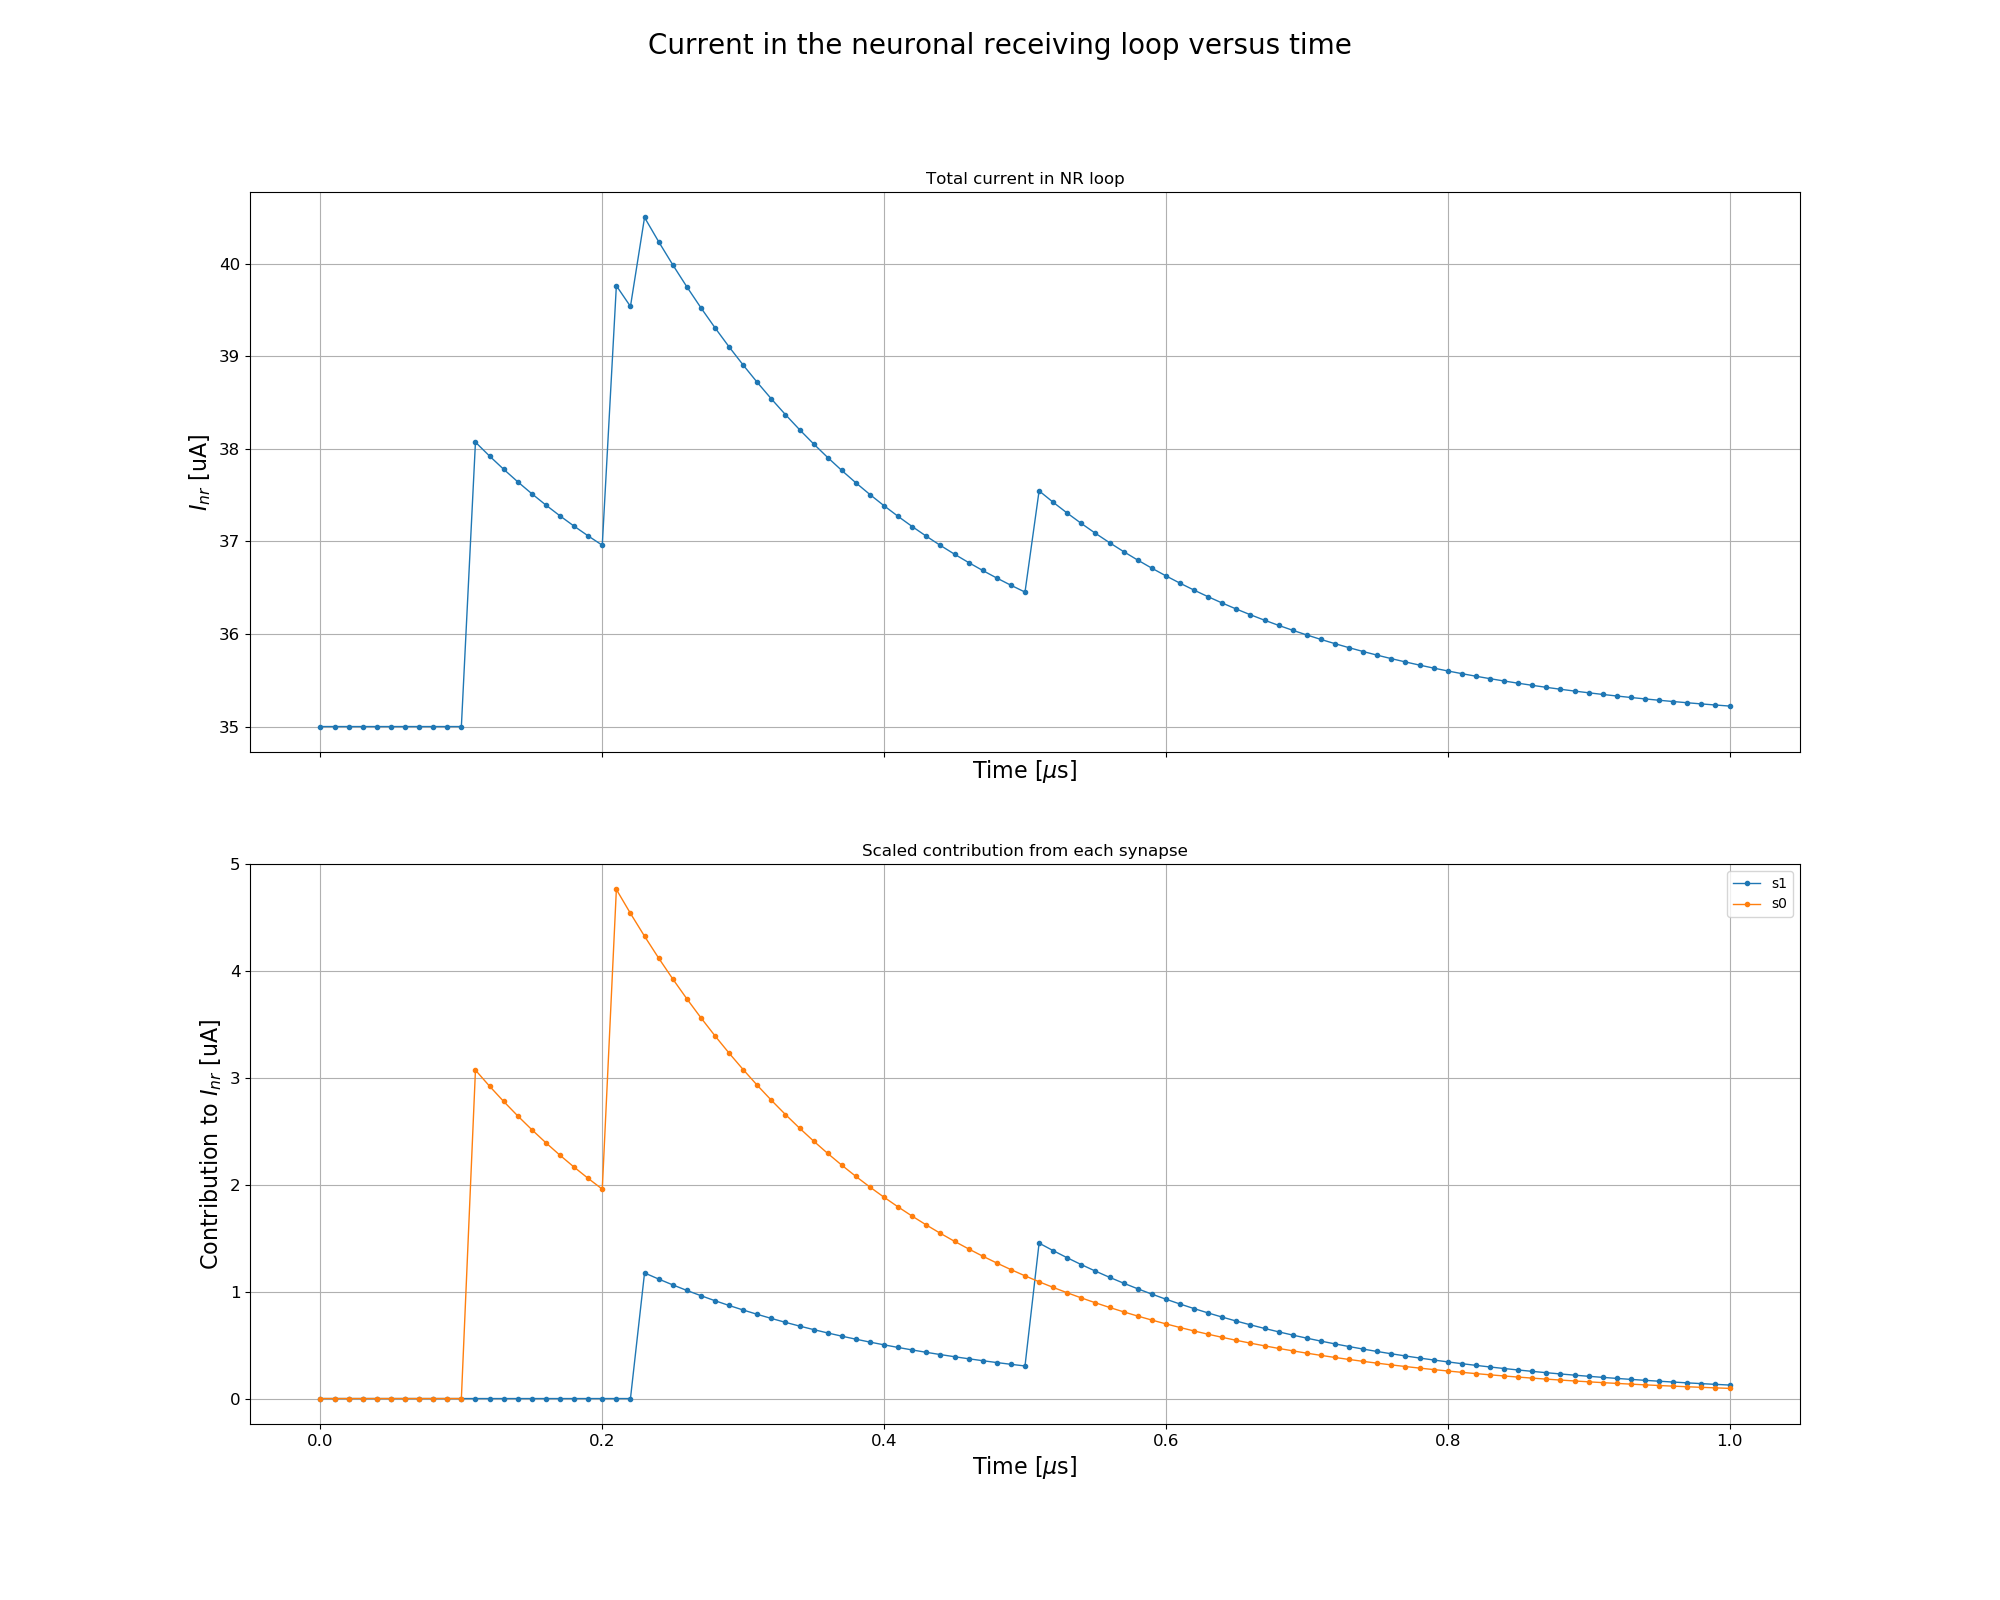
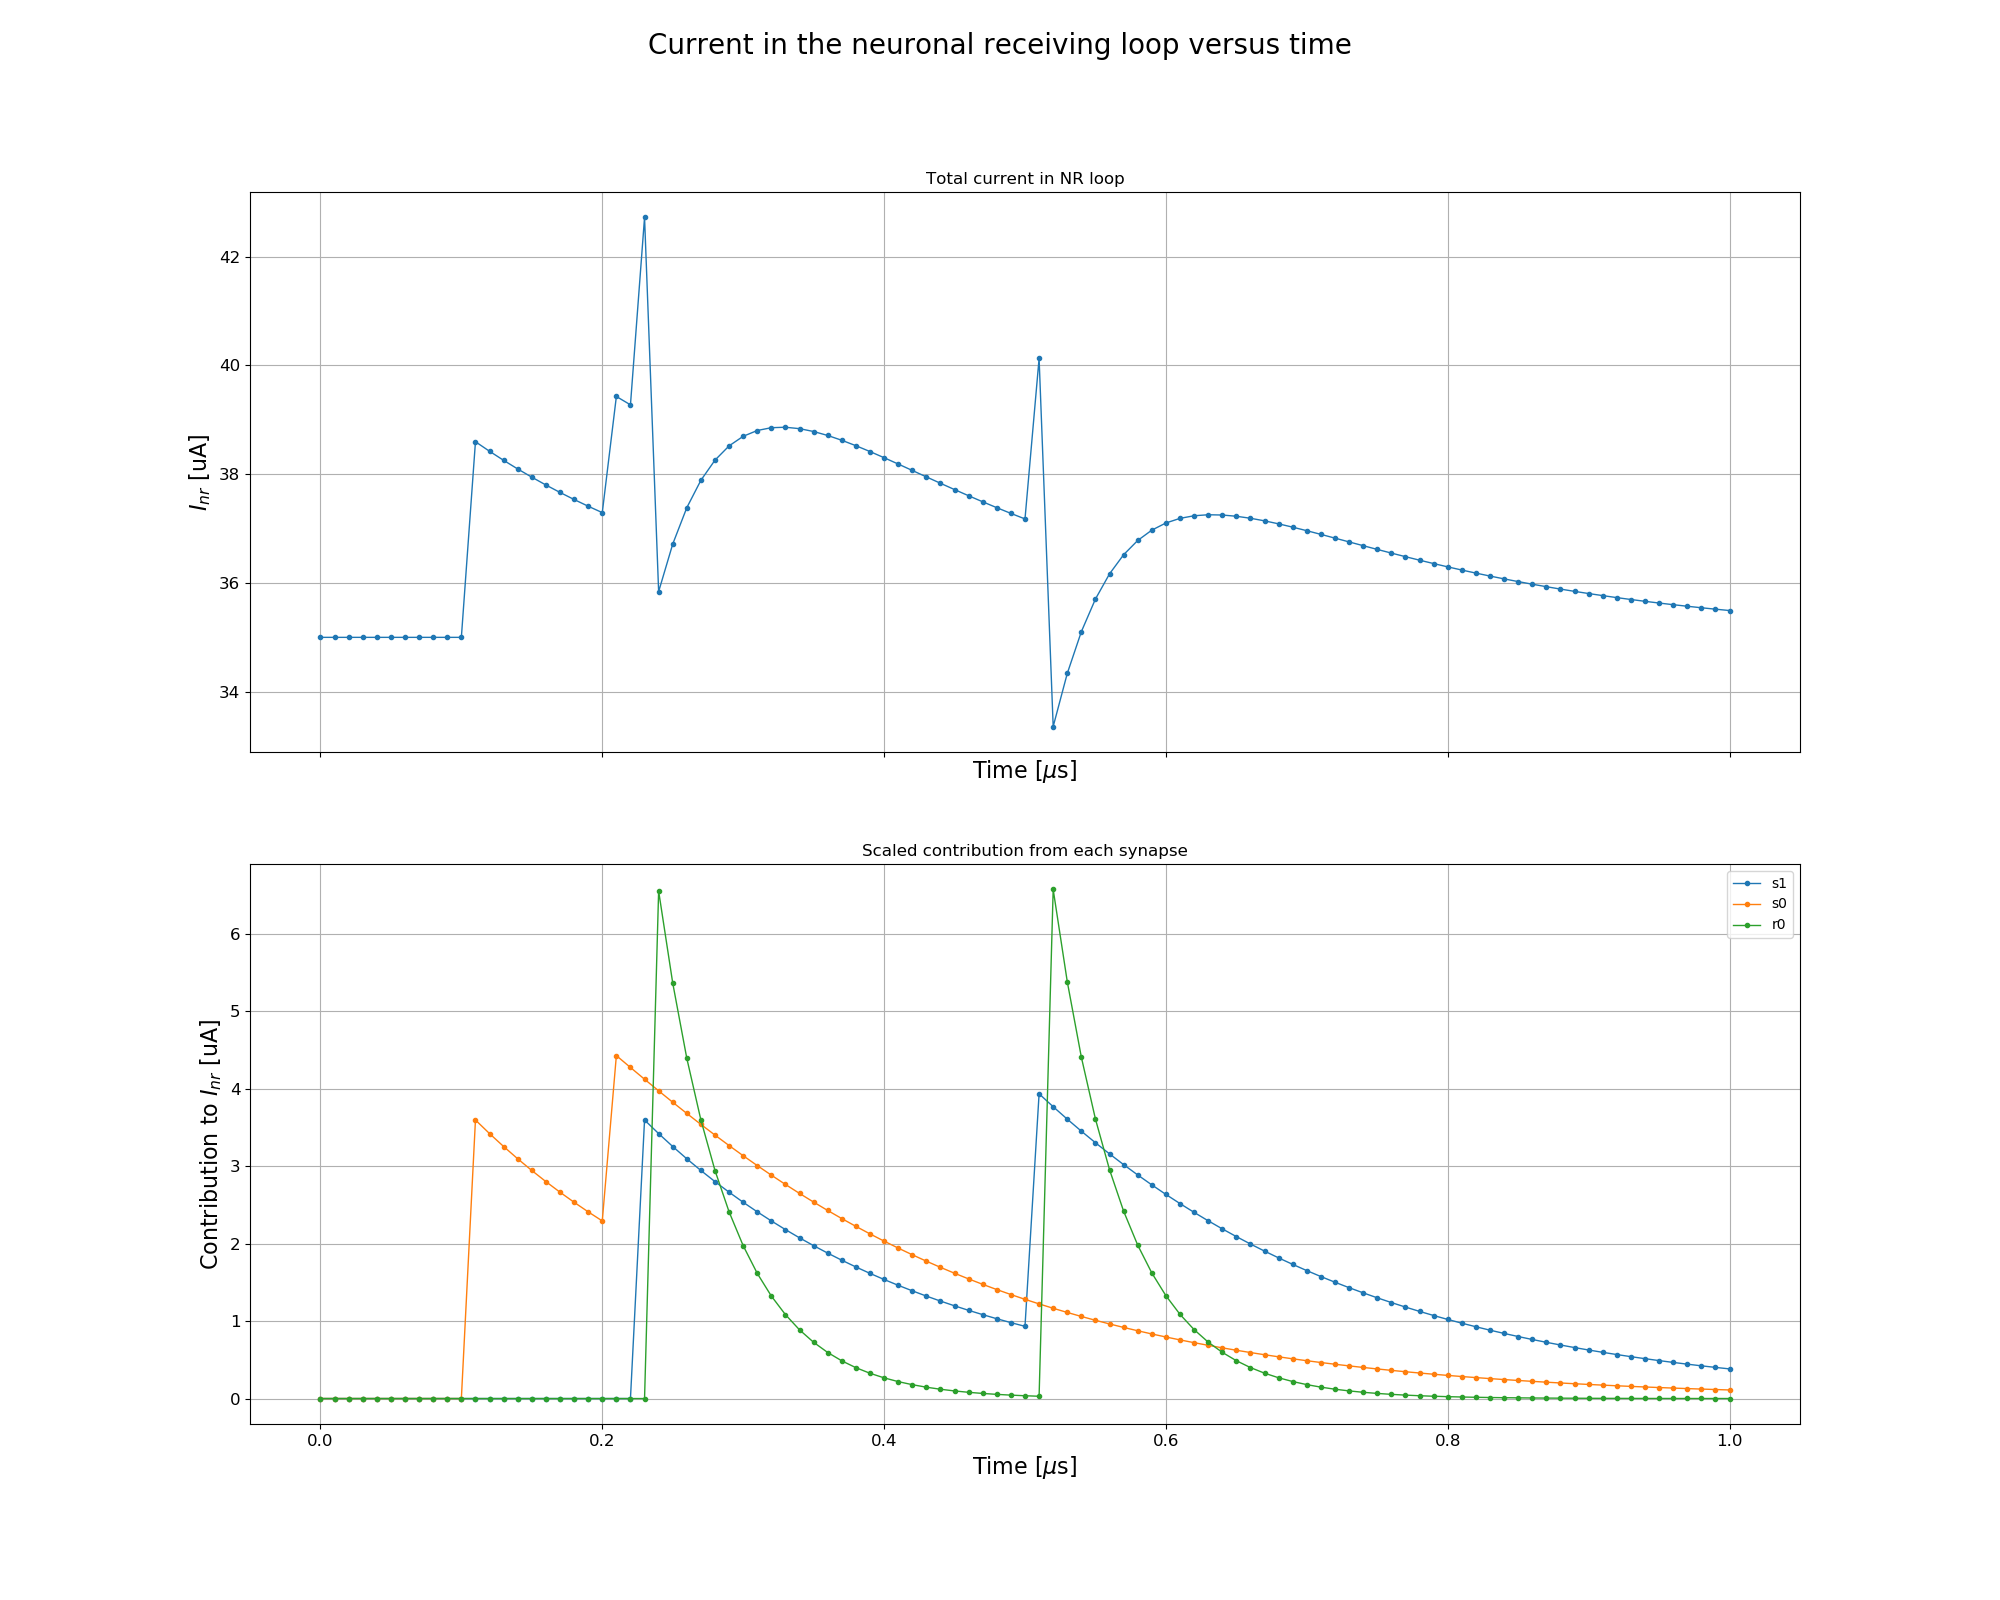
proper time stepping + refractory synapse

diff --git a/soen_sim.py b/soen_sim.py
@@ -6,7 +6,7 @@ import weakref
 # rc('font',**{'family':'sans-serif','sans-serif':['Helvetica']})
 # rc('text', usetex=True)
 
-from mathematical_functions import synaptic_response_function
+from mathematical_functions import synaptic_response_function,synaptic_time_stepper
 
 class synapse():
     #example_synapse = synapse('test_synapse__exp', loop_temporal_form = 'exponential',time_constant = 200e-9, integration_loop_inductance = 10e-9,synaptic_bias_current = 34e-6, loop_bias_current = 31e-6)
@@ -77,6 +77,7 @@ class synapse():
                      self.integration_loop_output_inductance = kwargs['integration_loop_output_inductance']
         else: 
             self.integration_loop_output_inductance = 200e-12 #default value, units of henries
+        self.integration_loop_total_inductance = self.integration_loop_self_inductance+self.integration_loop_output_inductance
 
         if 'synaptic_bias_current' in kwargs:
             if type(kwargs['synaptic_bias_current']) == int or type(kwargs['synaptic_bias_current']) == float:
@@ -154,7 +155,10 @@ class synapse():
 
         tau_fall = self.time_constant
 
-        I_si_vec = synaptic_response_function(time_vec,input_spike_times,I_0,I_si_sat,gamma1,gamma2,gamma3,tau_rise,tau_fall)
+        # I_si_vec = synaptic_response_function(time_vec,input_spike_times,I_0,I_si_sat,gamma1,gamma2,gamma3,tau_rise,tau_fall)
+        I_si_vec = np.zeros([len(time_vec),1])
+        for ii in range(len(time_vec)):
+            I_si_vec[ii] = synaptic_time_stepper(time_vec,ii,input_spike_times,I_0,I_si_sat,gamma1,gamma2,gamma3,tau_rise,tau_fall)
 
         self.I_si = I_si_vec*1e-6
 
@@ -234,7 +238,7 @@ class neuron():
             else:
                 raise ValueError('[soens_sim] Input connections to neurons are specified as a set of strings referencing the synapse/dendrite unique labels')
         else:
-            self.input_connections = {}
+            self.input_connections = {}        
 
         if 'input_inductances' in kwargs:
             if type(kwargs['input_inductances']) == list:
@@ -281,9 +285,36 @@ class neuron():
             if self.refractory_temporal_form == 'exponential':
                 self.refractory_time_constant = 50e-9 #default time constant, units of seconds
         
+        if 'refractory_loop_self_inductance' in kwargs:
+            if type(kwargs['refractory_loop_self_inductance']) == int or type(kwargs['refractory_loop_self_inductance']) == float:
+                if kwargs['refractory_loop_self_inductance'] < 0:
+                    raise ValueError('[soens_sim] Refractory loop self inductance associated with refractory suppression loop must be a real number between zero and infinity (units of henries)')
+                else:
+                     self.refractory_loop_self_inductance = kwargs['refractory_loop_self_inductance']
+        else: 
+            self.refractory_loop_self_inductance = 1e-9 #default value, units of henries
+                        
+        if 'refractory_loop_output_inductance' in kwargs:
+            if type(kwargs['refractory_loop_output_inductance']) == int or type(kwargs['refractory_loop_output_inductance']) == float:
+                if kwargs['refractory_loop_output_inductance'] < 0:
+                    raise ValueError('[soens_sim] Refractory loop output inductance associated with coupling between refractory suppression loop and neuron must be a real number between zero and infinity (units of henries)')
+                else:
+                     self.refractory_loop_output_inductance = kwargs['refractory_loop_output_inductance']
+        else: 
+            self.refractory_loop_output_inductance = 200e-12 #default value, units of henries       
+                 
+        #set up refractory loop as synapse
+        refractory_synaptic_bias_current = 39e-6 #default for now; want it to saturate with each spike
+        refractory_loop_bias_current = 31e-6 #doesn't matter now as synapse saturation is independent of bias; will matter with future updates, I hope
+        refractory_loop = synapse(self.colloquial_name+'__refractory_suppression_synapse', loop_temporal_form = 'exponential', time_constant = self.refractory_time_constant,
+                    integration_loop_self_inductance = self.refractory_loop_self_inductance, integration_loop_output_inductance = self.refractory_loop_output_inductance, 
+                    synaptic_bias_current = refractory_synaptic_bias_current, loop_bias_current = refractory_loop_bias_current)
+        
+        refractory_loop.unique_label = 'r0'
+        refractory_loop.input_spike_times = []
+        neuron.refractory_loop = refractory_loop
+        self.input_connections.add('r0')
         self.spike_times = [] #list of real numbers (times cell_body_circulating_current crossed threshold current with positive derivative; the main dynamical variable and output of the neuron)
-        self.refractory_loop_current = 0 #real (I_ref, amps; self-feedback variable)
-        # self.cell_body_circulating_current = self.threshold_bias_current
         
         return
     
@@ -302,8 +333,9 @@ class neuron():
         
         self.synapses = []
         for obj in synapse.get_instances():
+            # print(obj.unique_label)
             if obj.unique_label in self.input_connections:
-                self.synapses.append(obj)
+                self.synapses.append(obj)    
         
         return self
         
@@ -314,23 +346,56 @@ class neuron():
         self.receiving_loop_total_inductance = self.receiving_loop_self_inductance
         for ii in range(len(self.synapses)):
             self.receiving_loop_total_inductance += self.input_inductances[ii][0]
+            
+        #info for synaptic response
+        
+        #these values obtained by fitting to spice simulations
+        #see matlab scripts in a4/calculations/nC/phenomenological_modeling...
+        gamma1 = 0.9
+        gamma2 = 0.158
+        gamma3 = 3/4
+        _reference_inductance = 50e-9 #inductance at which I_0 fit was performed
+
+        #I_si_sat is actually a function of I_b (loop_current_bias). The fit I_si_sat(I_b) has not yet been performed (20200319)
+        I_si_sat__nom = 13
+        I_si_sat__rs_loop = 100
+
+        for ii in range(len(self.synapses)):
+            _I_sy = self.synapses[ii].synaptic_bias_current
+            self.synapses[ii].tau_rise = (1.294*_I_sy-43.01)*1e-9
+            _scale_factor = _reference_inductance/self.synapses[ii].integration_loop_total_inductance
+            self.synapses[ii].I_0 = (0.06989*_I_sy**2-3.948*_I_sy+53.73)*_scale_factor
+            mutual_inductance = self.input_inductances[ii][1]*np.sqrt(self.input_inductances[ii][0]*self.synapses[ii].integration_loop_output_inductance)
+            self.synapses[ii].coupling_factor = mutual_inductance/self.receiving_loop_total_inductance
+            self.synapses[ii].I_si = np.zeros([len(time_vec),1])
+          
+        #find index of refractory suppresion loop
+        for ii in range(len(self.synapses)):
+            if self.synapses[ii].unique_label == 'r0':
+                rs_index = ii
         
         self.cell_body_circulating_current = self.threshold_bias_current*np.ones([len(time_vec),1])
-        for ii in range(len(self.synapses)):
-            syn = self.synapses[ii]
+        self.state = 'sub_threshold'
+        for ii in range(len(time_vec)):
+            for jj in range(len(self.synapses)):
+                if jj == rs_index:
+                    I_si_sat = I_si_sat__rs_loop
+                    _inh = -1
+                else:
+                    I_si_sat = I_si_sat__nom
+                    _inh = 1
+                self.synapses[jj].I_si[ii] = synaptic_time_stepper(time_vec,ii,self.synapses[jj].input_spike_times,self.synapses[jj].I_0,I_si_sat,gamma1,gamma2,gamma3,self.synapses[jj].tau_rise,self.synapses[jj].time_constant)
+                self.cell_body_circulating_current[ii] += _inh*self.synapses[jj].coupling_factor*self.synapses[jj].I_si[ii]
+            if ii > 0:
+                if (self.cell_body_circulating_current[ii] > self.thresholding_junction_critical_current 
+                    and self.cell_body_circulating_current[ii-1] < self.thresholding_junction_critical_current 
+                    and self.state == 'sub_threshold'):
+                    self.state = 'spiking'
+                    self.spike_times.append(time_vec[ii])
+                    self.synapses[rs_index].input_spike_times.append(time_vec[ii])
+                if self.cell_body_circulating_current[ii] < self.thresholding_junction_critical_current:
+                    self.state = 'sub_threshold'            
             
-            syn.run_sim(time_vec)
-            mutual_inductance = self.input_inductances[ii][1]*np.sqrt(self.input_inductances[ii][0]*syn.integration_loop_output_inductance)
-            self.synapses[ii].coupling_factor = mutual_inductance/self.receiving_loop_total_inductance
-            self.synapses[ii].I_si = syn.I_si
-            # print(str(coupling_factor))
-            # print(str(self.cell_body_circulating_current.size))
-            # print(str(syn.I_si.size))
-            # self.cell_body_circulating_current = np.add(self.cell_body_circulating_current,coupling_factor*syn.I_si)
-            # print(str(self.cell_body_circulating_current.size))
-            for jj in range(len(time_vec)):
-                self.cell_body_circulating_current[jj] += self.synapses[ii].coupling_factor*syn.I_si[jj]
-        
         return self
     
     def plot_receiving_loop_current(self,time_vec):

diff --git a/mathematical_functions.py b/mathematical_functions.py
@@ -1,5 +1,22 @@
 import numpy as np
 
+def synaptic_time_stepper(time_vec,present_time_index,input_spike_times,I_0,I_si_sat,gamma1,gamma2,gamma3,tau_rise,tau_fall):
+    
+    _pti = present_time_index
+    _pt = time_vec[_pti] #present time
+    I_si = 0
+    for ii in range(len(input_spike_times)):
+        if _pt > input_spike_times[ii]:
+            if _pt-input_spike_times[ii] <= tau_rise:
+                I_si += synaptic_response_prefactor(I_0,I_si_sat,gamma1,gamma2,I_si,tau_rise,tau_fall)*\
+                    ( (1/tau_rise**gamma3)*(_pt - input_spike_times[ii])**gamma3 )*\
+                        np.exp(tau_rise/tau_fall)*np.exp(-(_pt-input_spike_times[ii])/tau_fall)
+            else:
+                I_si += synaptic_response_prefactor(I_0,I_si_sat,gamma1,gamma2,I_si,tau_rise,tau_fall)*\
+                    np.exp(tau_rise/tau_fall)*np.exp(-(_pt-input_spike_times[ii])/tau_fall)
+                    
+    return I_si*1e-6
+
 def synaptic_response_function(time_vec,input_spike_times,I_0,I_si_sat,gamma1,gamma2,gamma3,tau_rise,tau_fall):
 
     I_si_mat = np.zeros([len(time_vec),len(input_spike_times)])

diff --git a/s__soenbox.py b/s__soenbox.py
@@ -45,9 +45,9 @@ synapse_2 = synapse('test_synapse__power_law', loop_temporal_form = 'power_law',
 
 #%% set up neuron
 
-neuron_1 = neuron('test_neuron', input_connections = {'s0','s1'}, input_inductances = [[10e-12,0.5],[10e-12,0.5]],
+neuron_1 = neuron('test_neuron', input_connections = {'s0','s1'}, input_inductances = [[10e-12,0.5],[10e-12,0.5],[10e-12,0.5]],
                   thresholding_junction_critical_current = 40e-6, threshold_bias_current = 35e-6, 
-                  refractory_temporal_form = 'exponential', )
+                  refractory_temporal_form = 'exponential', refractory_loop_self_inductance = 1e-9, refractory_loop_output_inductance = 200e-12)
 
 # for obj in neuron.get_instances():
 #     print(obj.colloquial_name)
